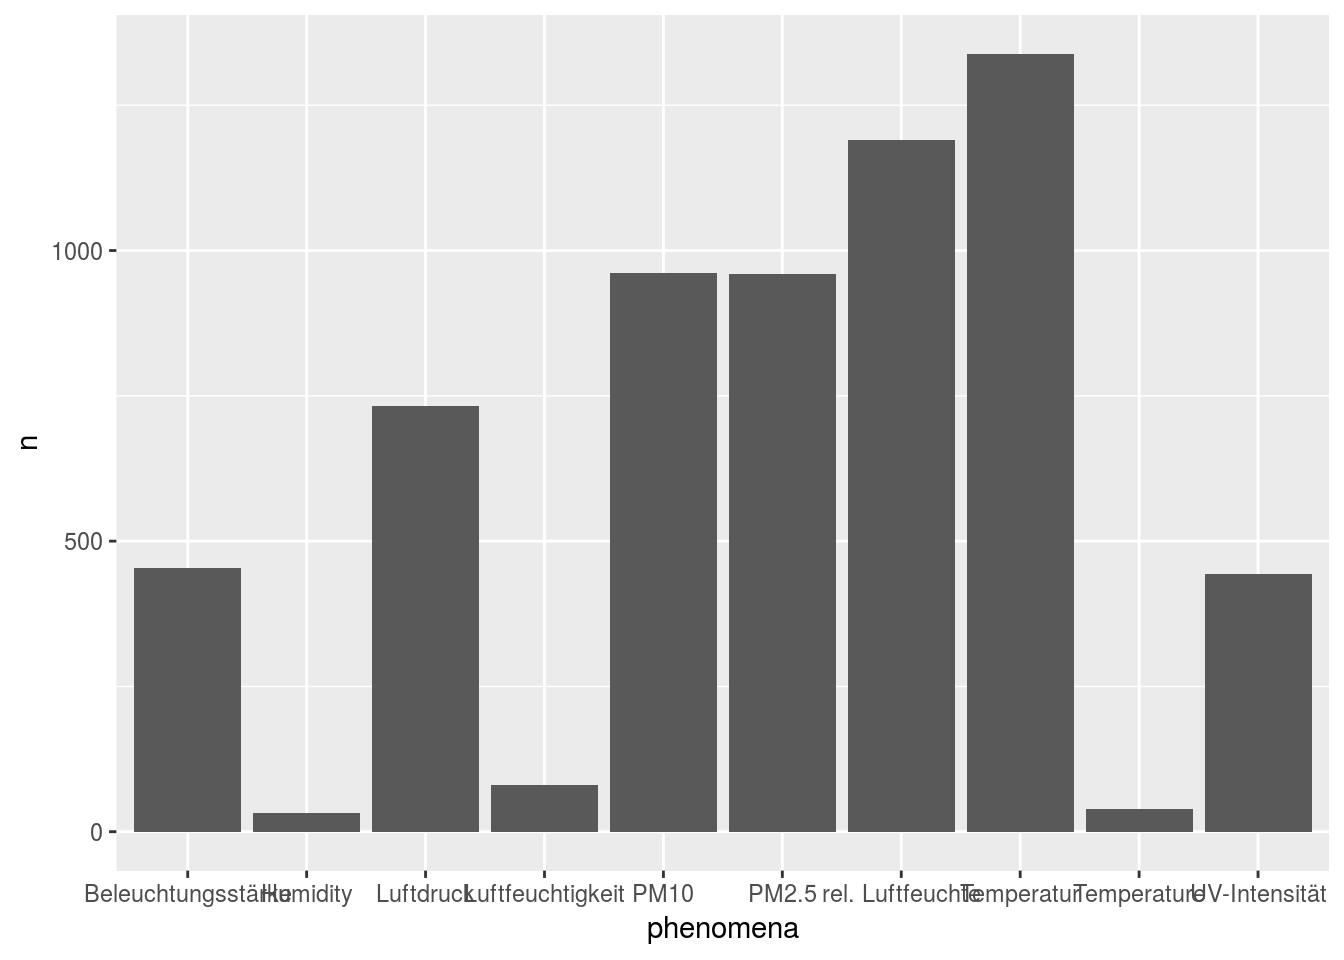
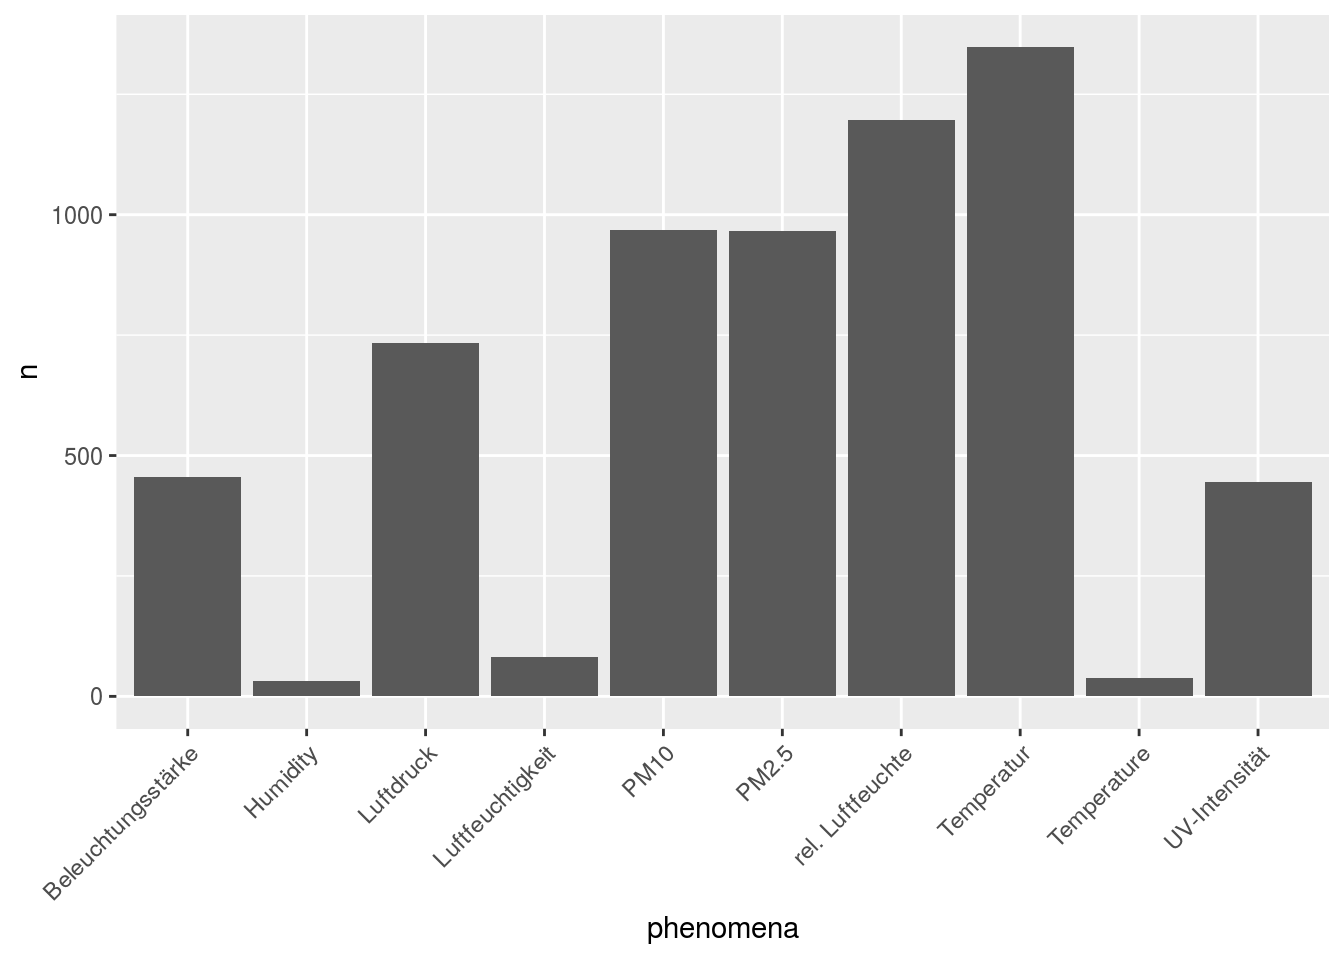
update x-axis labels in README

diff --git a/README.md b/README.md
@@ -38,7 +38,7 @@ value
 Number of senseBoxes
 </td>
 <td style="text-align:right;">
-1488
+1498
 </td>
 </tr>
 <tr>
@@ -46,7 +46,7 @@ Number of senseBoxes
 Number of Measurements
 </td>
 <td style="text-align:right;">
-707509997
+712689867
 </td>
 </tr>
 <tr>
@@ -54,7 +54,7 @@ Number of Measurements
 Number of measurements in last minute
 </td>
 <td style="text-align:right;">
-2142
+2188
 </td>
 </tr>
 </tbody>
@@ -582,7 +582,8 @@ infos %>%
   arrange(desc(n)) %>% 
   top_n(10, n) %>% 
   ggplot() +
-  geom_histogram(aes(x = phenomena, y = n), stat = "identity")
+  geom_histogram(aes(x = phenomena, y = n), stat = "identity") +
+  theme(axis.text.x = element_text(angle = 45, hjust = 1))
 ## Warning: Ignoring unknown parameters: binwidth, bins, pad
 ```
 
@@ -597,7 +598,8 @@ infos %>%
   top_n(5, n) %>% 
   
   ggplot() +
-  geom_bar(aes(x = grouptag, y = n, fill = exposure), stat = "identity")
+  geom_bar(aes(x = grouptag, y = n, fill = exposure), stat = "identity") +
+  theme(axis.text.x = element_text(angle = 45, hjust = 1))
 ```
 
 <img src="README_figs/README-unnamed-chunk-14-1.png" width="672" />
